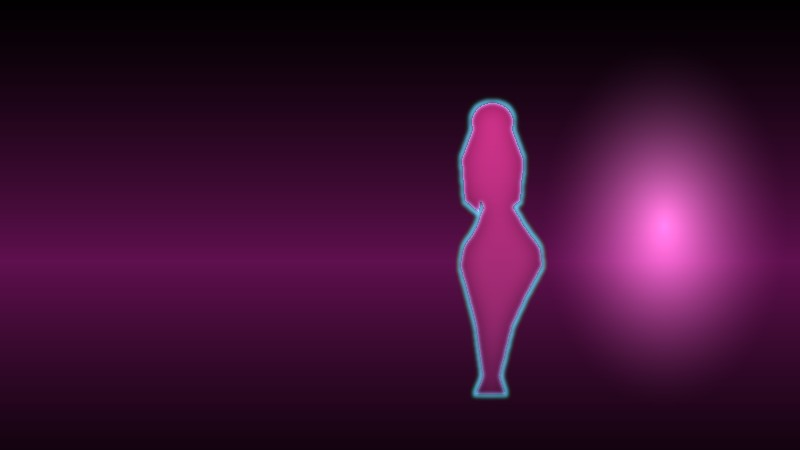
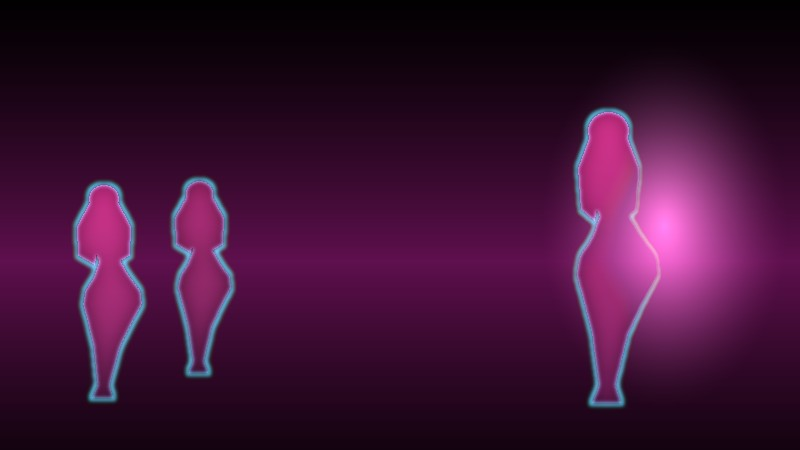
make it an actual 3way: three humans in every asset
it's a THREEsome, duh.
- logo: a trio of neon silhouettes behind 3WAY (center forward, two flanking)
- afterglow: two reclining in bed + one leaving in the doorway
- morning: two who stay (watching) + one who walks out at dawn

Changed region(s): [[0.5625, 0.2178, 0.8125, 0.9333], [0.0625, 0.3733, 0.3125, 0.9022], [0.8125, 0.56, 0.8438, 0.6533]]

diff --git a/tools/render.py b/tools/render.py
@@ -156,19 +156,34 @@ def cursor(size, on):
     return layer
 
 # ── frame compositor ────────────────────────────────────────────────────────
+# place a scaled silhouette onto a full-size black layer at (cx_frac, top_frac)
+def figure(size, hpx, cxf, topf, sway=0.0, hair=0.5, cols=(HOTPINK, PURPLE)):
+    m = silhouette(hpx, sway=sway, hair=hair, scale=0.9)
+    s,_ = tinted(m, hpx, cols[0], cols[1], CYAN)
+    lay = Image.new("RGB", (size, size), (0,0,0))
+    lay.paste(s, (int(size*cxf - hpx*0.5), int(size*topf)))
+    return lay
+
 def frame(size, phase):
     bg = background(size)
     flick = 0.7 + 0.3*math.sin(phase*2*math.pi*3) + (0.25 if rng(int(phase*97)).random()>0.85 else 0)
     flick = min(1.15, flick)
-    sway = 0.012*math.sin(phase*2*math.pi)
-    hair = 0.5+0.5*math.sin(phase*2*math.pi + 1.0)
-    mask = silhouette(size, sway=sway, hair=hair, scale=0.92)
-    sil,_ = tinted(mask, size, HOTPINK, PURPLE, CYAN)
+    # THREE humans — it's a 3way: a trio behind the wordmark. Center one forward+tallest, two
+    # flanking, each swaying on its own phase so the group breathes.
+    trio = [
+        (0.145, 0.34, 0.50, 0.9),   # left  (cxf, topf, hpx-frac, hair-phase)
+        (0.500, 0.10, 1.00, 0.0),   # center (tallest, forward)
+        (0.855, 0.34, 0.50, 0.6),   # right
+    ]
+    out = bg
+    for i,(cxf, topf, hf, hp) in enumerate(trio):
+        sway = 0.012*math.sin(phase*2*math.pi + i*2.1)
+        hair = 0.5+0.5*math.sin(phase*2*math.pi + hp*6.28)
+        cols = (HOTPINK, PURPLE) if i==1 else (MAGENTA, (60,10,44))
+        out = ImageChops.lighter(out, figure(size, int(size*hf), cxf, topf, sway, hair, cols))
     wm,_ = wordmark(size, flick=flick)
     cur = cursor(size, on=(math.sin(phase*2*math.pi*2) > -0.2))
-    # order: bg → silhouette (behind letters, showing through) → wordmark → cursor
-    out = ImageChops.add(bg, sil)                 # her full neon body
-    out = ImageChops.lighter(out, wm)             # wordmark rides on top, letters cross her
+    out = ImageChops.lighter(out, wm)             # wordmark rides on top, letters cross them
     out = ImageChops.add(out, wm.point(lambda p:int(p*0.25)))  # a touch of type bloom
     out = ImageChops.add(out, cur)
     return out
@@ -199,13 +214,19 @@ def morning_frame(W, H, phase):
     S = int(H*0.86 * (1 - 0.18*walk))
     canvas = Image.new("RGB", (W, H), (0,0,0))
     canvas = ImageChops.add(canvas, bg)
+    # the two who STAY — standing at frame-left, softer, watching her go
+    for cxf, hf, ph, cols in [(0.13, 0.60, 0.0, (150,26,92)), (0.25, 0.54, 2.0, (108,18,66))]:
+        hs = int(H*hf); sm = silhouette(hs, sway=0.01*math.sin(phase*6.28+ph), hair=0.5, scale=0.9)
+        st,_ = tinted(sm, hs, cols, (34,6,30), CYAN)
+        sl = Image.new("RGB",(W,H),(0,0,0)); sl.paste(st, (int(W*cxf-hs*0.5), int(H*0.32)))
+        canvas = ImageChops.lighter(canvas, sl)
+    # the one who LEAVES — recedes toward the doorway, hips swaying, rim-lit
     sway = 0.02*math.sin(walk*2*math.pi*2)
     hair = 0.5+0.5*math.sin(walk*2*math.pi*2 + 1.0)
     mask = silhouette(S, sway=sway, hair=hair, scale=0.92)
-    # she's mostly a dark silhouette against the doorway, with a hot rim light
     sil, _ = tinted(mask, S, (150,25,90), (40,6,36), CYAN)
-    x = int(W*0.30 + walk*W*0.34)
-    y = int(H*0.10 + walk*H*0.02)
+    x = int(W*0.46 + walk*W*0.28)
+    y = int(H*0.12 + walk*H*0.02)
     layer = Image.new("RGB", (W, H), (0,0,0)); layer.paste(sil, (x, y))   # figure on black
     canvas = ImageChops.lighter(canvas, layer)                            # add her, no black box
     # blinking green cursor bottom-left — the driver, still at the keyboard
@@ -246,15 +267,17 @@ def afterglow(W, H):
     # pillow (head end, left)
     d.rounded_rectangle([bx0+int(W*0.015),by0+int(H*0.02),bx0+int(W*0.15),by0+int(H*0.12)], radius=16, fill=(128,66,102))
 
-    # reclining silhouette lying ON the bed (the one who stays) — rotate the standing curve 90°.
-    S = int((by1-by0)*1.7)
-    rec = silhouette(S, sway=0.0, hair=0.4, scale=0.86).rotate(90, expand=True)   # head → left (pillow)
-    sil,_ = tinted(rec.convert("L"), max(rec.size), (170,30,100), (70,12,50), CYAN)
-    sil = sil.crop((0,0,rec.size[0],rec.size[1]))
-    # center the figure box on the bed, nudged toward the pillow end
-    px = bx0 + int(W*0.02); py = bcy - rec.size[1]//2
-    layer = Image.new("RGB",(W,H),(0,0,0)); layer.paste(sil, (px, py))
-    img = ImageChops.lighter(img, layer)
+    # TWO reclining silhouettes lying ON the bed (the two who stay) — rotate the standing curve 90°.
+    for k,(sc, yo, cols) in enumerate([
+            (1.7, -0.11, (170,30,100)),    # front sleeper
+            (1.5,  0.10, (120,20,74))]):   # the other, further back / dimmer
+        S = int((by1-by0)*sc)
+        rec = silhouette(S, sway=0.0, hair=0.4, scale=0.86).rotate(90, expand=True)  # head → left (pillow)
+        sil,_ = tinted(rec.convert("L"), max(rec.size), cols, (60,10,44), CYAN)
+        sil = sil.crop((0,0,rec.size[0],rec.size[1]))
+        px = bx0 + int(W*(0.02 + k*0.06)); py = int(bcy + H*yo) - rec.size[1]//2
+        layer = Image.new("RGB",(W,H),(0,0,0)); layer.paste(sil, (px, py))
+        img = ImageChops.lighter(img, layer)
 
     # the leaving figure, rim-lit, fully in the dawn doorway (she walks out)
     GS = int(H*0.70)
